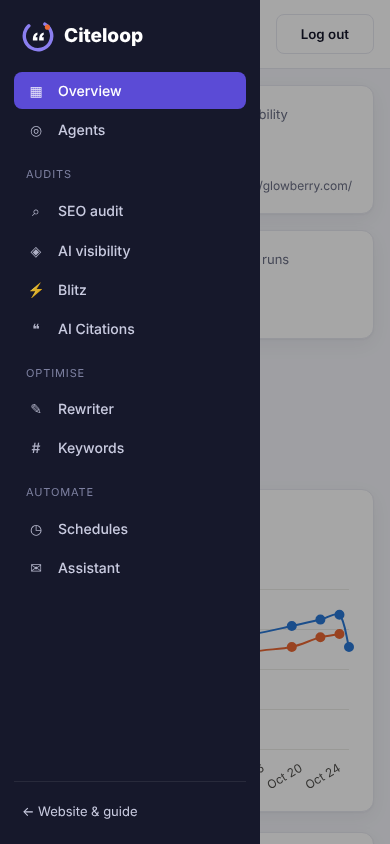
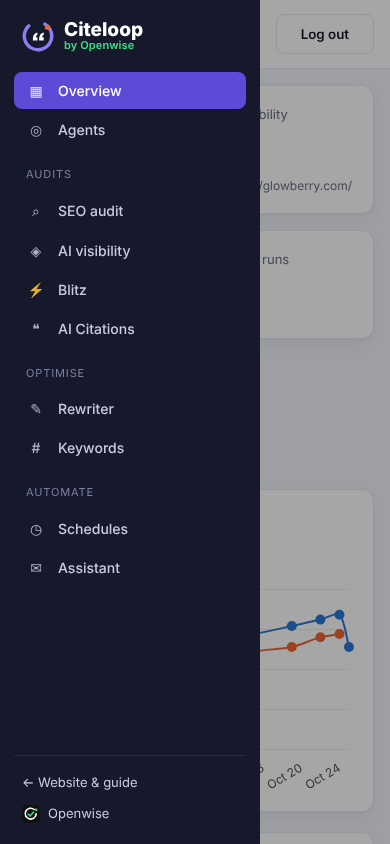
Endorse Citeloop as a product of Openwise: header, sidebar, footer, README
Claude-Session: https://claude.ai/code/session_0159rfS4HCyZep4vCA5FmULq

Changed region(s): [[0.0615, 0.9242, 0.3385, 0.9858], [0.1538, 0.0, 0.3692, 0.0616]]

diff --git a/public/index.html b/public/index.html
@@ -13,7 +13,7 @@
 <body>
 <nav class="nav">
   <div class="wrap nav-in">
-    <a href="/" class="logo"><img class="logo-img" src="logo-mark.svg" alt="">Citeloop</a>
+    <a href="/" class="logo"><img class="logo-img" src="logo-mark.svg" alt=""><span>Citeloop<small class="by">by Openwise</small></span></a>
     <input type="checkbox" id="nav-t" hidden><label for="nav-t" class="burger">☰</label>
     <div class="links">
       <a href="#services">Services</a><a href="#how">How it works</a><a href="#faq">FAQ</a><a href="#guide">Guide</a><a href="#pricing">Pricing</a>
@@ -142,11 +142,12 @@
 
 <footer class="footer">
   <div class="wrap foot-in">
-    <div><a href="/" class="logo light"><img class="logo-img" src="logo-mark-light.svg" alt="">Citeloop</a><p>AI agents for Google Ads, Meta Ads, SEO and AI search.</p></div>
+    <div><a href="/" class="logo light"><img class="logo-img" src="logo-mark-light.svg" alt="">Citeloop</a><p>AI agents for Google Ads, Meta Ads, SEO and AI search.</p>
+      <a class="by-ow" href="https://openwise.tech" target="_blank" rel="noopener"><img src="openwise-mark.svg" alt="" width="22" height="22"> A product of <b>Openwise</b></a></div>
     <div><h4>Product</h4><a href="dashboard.html">Dashboard</a><a href="#pricing">Pricing</a></div>
     <div><h4>Resources</h4><a href="#guide">Guide</a><a href="#" onclick="window.print();return false">Print guide</a></div>
   </div>
-  <div class="wrap copy">© 2026 Citeloop. All rights reserved.</div>
+  <div class="wrap copy">© 2026 Openwise. Citeloop is a product of <a href="https://openwise.tech" target="_blank" rel="noopener">Openwise</a>.</div>
 </footer>
 
 <script src="data.js"></script>

diff --git a/public/dashboard.html b/public/dashboard.html
@@ -11,7 +11,7 @@
 <body>
 <div class="shell">
 <aside class="side">
-  <a href="/" class="logo"><img class="logo-img" src="logo-mark-light.svg" alt="">Citeloop</a>
+  <a href="/" class="logo"><img class="logo-img" src="logo-mark-light.svg" alt=""><span>Citeloop<small class="by">by Openwise</small></span></a>
   <nav class="tabs" id="tabs">
       <button data-tab="overview" class="on"><i>▦</i>Overview</button><button data-tab="agents"><i>◎</i>Agents</button>
       
@@ -19,7 +19,7 @@
       <small class="side-group">Optimise</small><button data-tab="rewrite"><i>✎</i>Rewriter</button><button data-tab="kw"><i>#</i>Keywords</button>
       <small class="side-group">Automate</small><button data-tab="sched"><i>◷</i>Schedules <span class="badge-n" id="alert-n" hidden></span></button><button data-tab="chat"><i>✉</i>Assistant</button>
     </nav>
-  <div class="side-foot"><a href="/" class="side-link">← Website & guide</a></div>
+  <div class="side-foot"><a href="/" class="side-link">← Website & guide</a><a class="side-link by-ow" href="https://openwise.tech" target="_blank" rel="noopener"><img src="openwise-mark.svg" alt="" width="18" height="18"> Openwise</a></div>
 </aside>
 <div class="main-col">
 <header class="topbar">

diff --git a/public/styles.css b/public/styles.css
@@ -423,3 +423,13 @@ h1 { font-weight: 800; }
 
 .logo-img { width: 34px; height: 34px; flex: none; }
 .side .logo-img { width: 32px; height: 32px; }
+/* "by Openwise" endorsement */
+.logo span { display: flex; flex-direction: column; line-height: 1.05; }
+.logo .by { font-size: 11px; font-weight: 600; color: #1f7a45; letter-spacing: .01em; }
+.side .logo .by, .logo.light .by { color: #3ddc84; }
+.by-ow { display: inline-flex; align-items: center; gap: 8px; margin-top: 14px; text-decoration: none; font-size: 13px; }
+.footer .by-ow { color: #b9b6d9; } .footer .by-ow b { color: #fff; }
+.side-foot { display: flex; flex-direction: column; gap: 10px; }
+.side-foot .by-ow { margin-top: 0; }
+.copy a { color: #fff; }
+.footer .copy a { display: inline; padding: 0; }

diff --git a/README.md b/README.md
@@ -1,5 +1,7 @@
 # Citeloop — open-source agentic marketing
 
+*A product of [Openwise](https://openwise.tech).*
+
 Run **Google Ads, Meta Ads, SEO and AI search (GEO)** with a team of AI agents — free, self-hosted, and open source.
 
 ![Dashboard](screenshots/14-overview.png)
